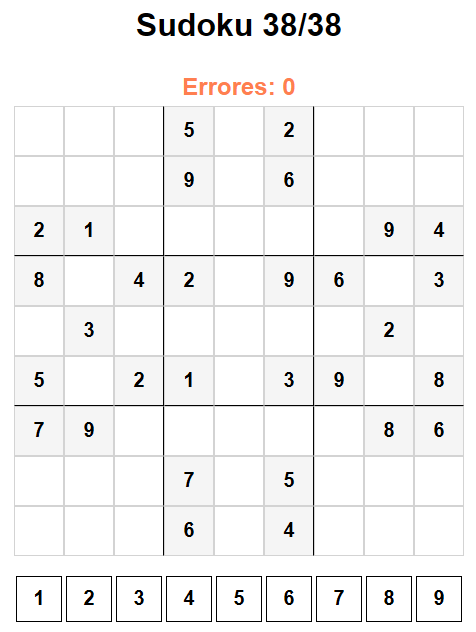
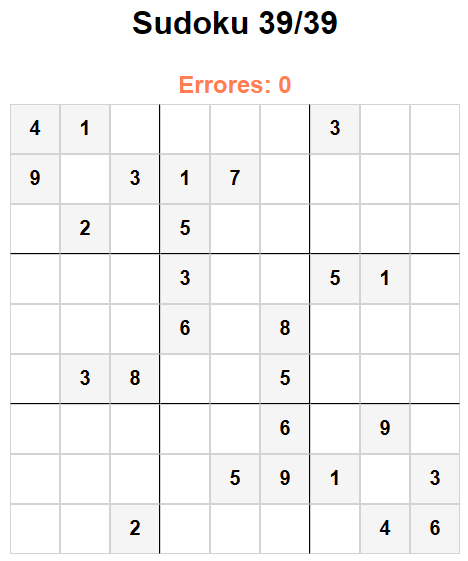
Feat: sudoku-javascript. 20250901
- 20250907

#20250907

Changed region(s): [[0.0299, 0.1212, 0.9872, 1.0], [0.2692, 0.0, 0.7179, 0.0606], [0.0598, 0.2121, 0.0897, 0.2424]]

diff --git a/board.js b/board.js
@@ -74,7 +74,9 @@ const board = [
   ['---1---5-', '971----8-', '---7-9-4-','1--8---3-', '--3---8--',
     '-2---4--9', '-4-6-1---', '-9----173', '-1---2---'],
   ['---5-2---', '---9-6---', '21-----94', '8-42-96-3', '-3-----2-',
-    '5-21-39-8', '79-----86', '---7-5---', '---6-4---']
+    '5-21-39-8', '79-----86', '---7-5---', '---6-4---'],
+  ['41----3--', '9-317----', '-2-5-----', '---3--51-', '---6-8---',
+    '-38--5---', '-----6-9-', '----591-3', '--2----46']
 ];
 
 export default function getBoard(WHICH) {

diff --git a/sudoku.js b/sudoku.js
@@ -10,7 +10,7 @@ let posExample = '';
 
 let errors = 0;
 
-const WHICH = 37;
+const WHICH = 38;
 let currentBoardIndex = WHICH; // El índice del tablero que se va a resolver
 
 let board = [];
